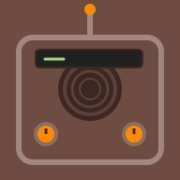
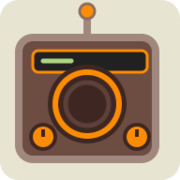
fix: スマホ版ステータス表示不具合の解消、アイコンの変更

diff --git a/js/app.js b/js/app.js
@@ -1,6 +1,7 @@
-const BASE_URL = 'https://de1.api.radio-browser.info/json/stations/search?';
 const JAPAN_LANGUAGE = 'japanese';
+const SERVER_LIST_URL = 'https://all.api.radio-browser.info/json/servers';
 
+let baseUrl = null; // Will be set dynamically
 let currentCountry = ''; // Empty = All countries
 let currentTag = '';
 let currentSearchTerm = '';
@@ -27,6 +28,7 @@ let currentStationName = '';
 
 // Check if device is mobile
 function isMobileDevice() {
+    // Match CSS media query breakpoint
     return window.innerWidth <= 480;
 }
 
@@ -74,10 +76,68 @@ function isFavorite(stationUuid) {
     return loadFavorites().includes(stationUuid);
 }
 
+// --- Server Selection and Caching ---
+
+function saveServer(serverName) {
+    localStorage.setItem('radioServerName', serverName);
+}
+
+function loadServer() {
+    return localStorage.getItem('radioServerName');
+}
+
+async function selectRadioServer(forceNew = false) {
+    // Use cached server if available and not forcing new selection
+    if (!forceNew) {
+        const cached = loadServer();
+        if (cached) {
+            baseUrl = `https://${cached}/json/stations/search?`;
+            return cached;
+        }
+    }
+
+    try {
+        const response = await fetch(SERVER_LIST_URL);
+        if (!response.ok) throw new Error('Failed to fetch server list');
+
+        const servers = await response.json();
+        if (!servers || servers.length === 0) {
+            throw new Error('No servers available');
+        }
+
+        // Select random server from the list
+        const randomServer = servers[Math.floor(Math.random() * servers.length)];
+        const serverName = randomServer.name;
+
+        baseUrl = `https://${serverName}/json/stations/search?`;
+        saveServer(serverName);
+
+        console.log(`Using Radio Browser server: ${serverName}`);
+        return serverName;
+    } catch (error) {
+        console.error('Error selecting server:', error);
+        // Fallback to default server
+        const fallbackServer = 'de1.api.radio-browser.info';
+        baseUrl = `https://${fallbackServer}/json/stations/search?`;
+        saveServer(fallbackServer);
+        return fallbackServer;
+    }
+}
+
+function getStationByUuidUrl(uuid) {
+    const serverName = loadServer() || 'de1.api.radio-browser.info';
+    return `https://${serverName}/json/stations/byuuid/${uuid}`;
+}
+
 // --- API Calls and List Rendering ---
 
-async function fetchStations() {
+async function fetchStations(retryWithNewServer = true) {
     stationListElement.innerHTML = '<div class="loading">📡 Searching...</div>';
+
+    // Ensure server is selected
+    if (!baseUrl) {
+        await selectRadioServer();
+    }
 
     // If showing favorites only and country is "All", fetch favorite stations by UUID
     if (showFavoritesOnly && currentCountry === '') {
@@ -112,7 +172,7 @@ async function fetchStations() {
     const queryParams = new URLSearchParams(params);
 
     try {
-        const url = `${BASE_URL}${queryParams.toString()}`;
+        const url = `${baseUrl}${queryParams.toString()}`;
         const response = await fetch(url);
         if (!response.ok) throw new Error(`HTTP error! status: ${response.status}`);
         const stations = await response.json();
@@ -120,7 +180,15 @@ async function fetchStations() {
         renderStationList(stations, stationListElement);
     } catch (error) {
         console.error("Error fetching stations:", error);
-        stationListElement.innerHTML = '<p class="error-message">Failed to fetch data.</p>';
+
+        // Retry with a new server if this is the first attempt
+        if (retryWithNewServer) {
+            console.log("Retrying with a different server...");
+            await selectRadioServer(true); // Force new server selection
+            await fetchStations(false); // Retry once with new server
+        } else {
+            stationListElement.innerHTML = '<p class="error-message">Failed to fetch data.</p>';
+        }
     }
 }
 
@@ -132,10 +200,15 @@ async function fetchFavoriteStations() {
         return;
     }
 
+    // Ensure server is selected
+    if (!baseUrl) {
+        await selectRadioServer();
+    }
+
     try {
         // Fetch each favorite station by UUID
         const stationPromises = favorites.map(uuid =>
-            fetch(`https://de1.api.radio-browser.info/json/stations/byuuid/${uuid}`)
+            fetch(getStationByUuidUrl(uuid))
                 .then(res => res.json())
                 .catch(err => {
                     console.error(`Failed to fetch station ${uuid}:`, err);
@@ -231,17 +304,23 @@ function playStation(url, name) {
 }
 
 function updateStationInfo(name, isPaused) {
+    const isMobile = isMobileDevice();
+    const screenWidth = window.innerWidth;
+    console.log(`updateStationInfo called: isMobile=${isMobile}, screenWidth=${screenWidth}, isPaused=${isPaused}`);
+
     let icon, statusText;
 
-    if (isMobileDevice()) {
-        // Mobile: use speaker icon always
-        icon = '🔊';
-        statusText = 'NOW PLAYING';
+    if (isMobile) {
+        // Mobile: use speaker icons for play/pause states
+        icon = isPaused ? '🔇' : '🔊';
+        statusText = isPaused ? 'PAUSED' : 'NOW PLAYING';
     } else {
         // PC: use play/pause icons
         icon = isPaused ? '⏸' : '▶';
         statusText = isPaused ? 'PAUSED' : 'NOW PLAYING';
     }
+
+    console.log(`Setting icon: ${icon}, statusText: ${statusText}`);
 
     stationInfoElement.innerHTML = `
         <div class="now-playing">
@@ -471,6 +550,10 @@ document.addEventListener('DOMContentLoaded', () => {
     audioPlayer.volume = savedVolume / 100;
     volumeValue.textContent = `${savedVolume}%`;
 
-    fetchStations();
+    // Initialize server and fetch stations
+    selectRadioServer().then(() => {
+        fetchStations();
+    });
+
     drawStaticWaveform();
 });
